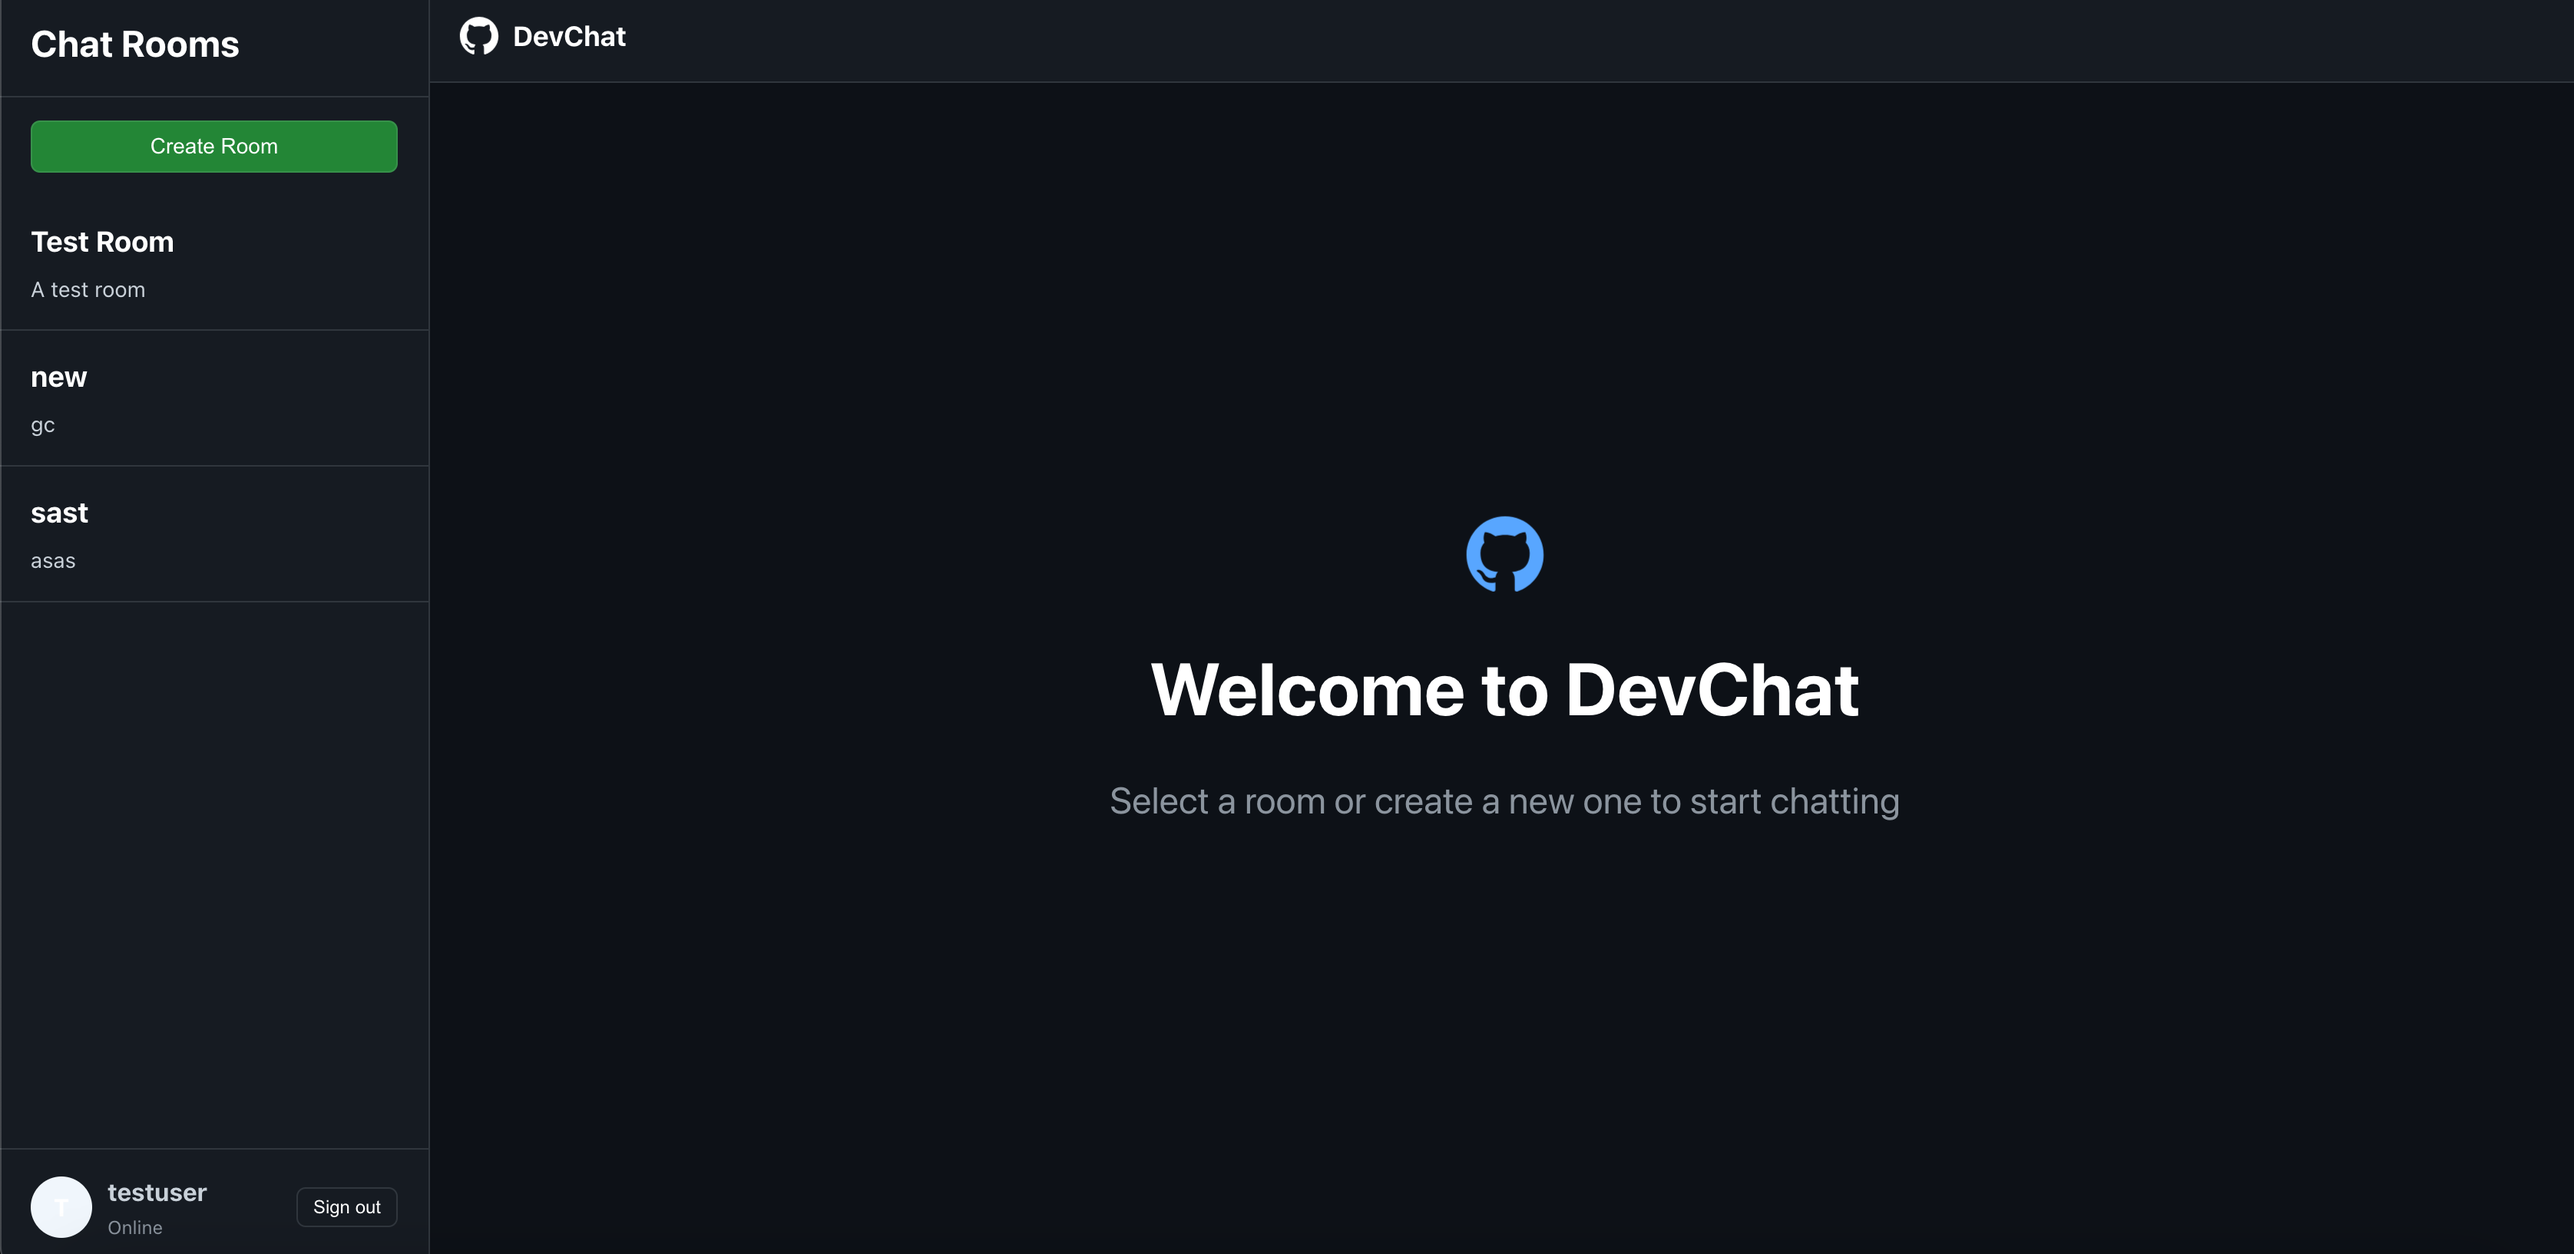
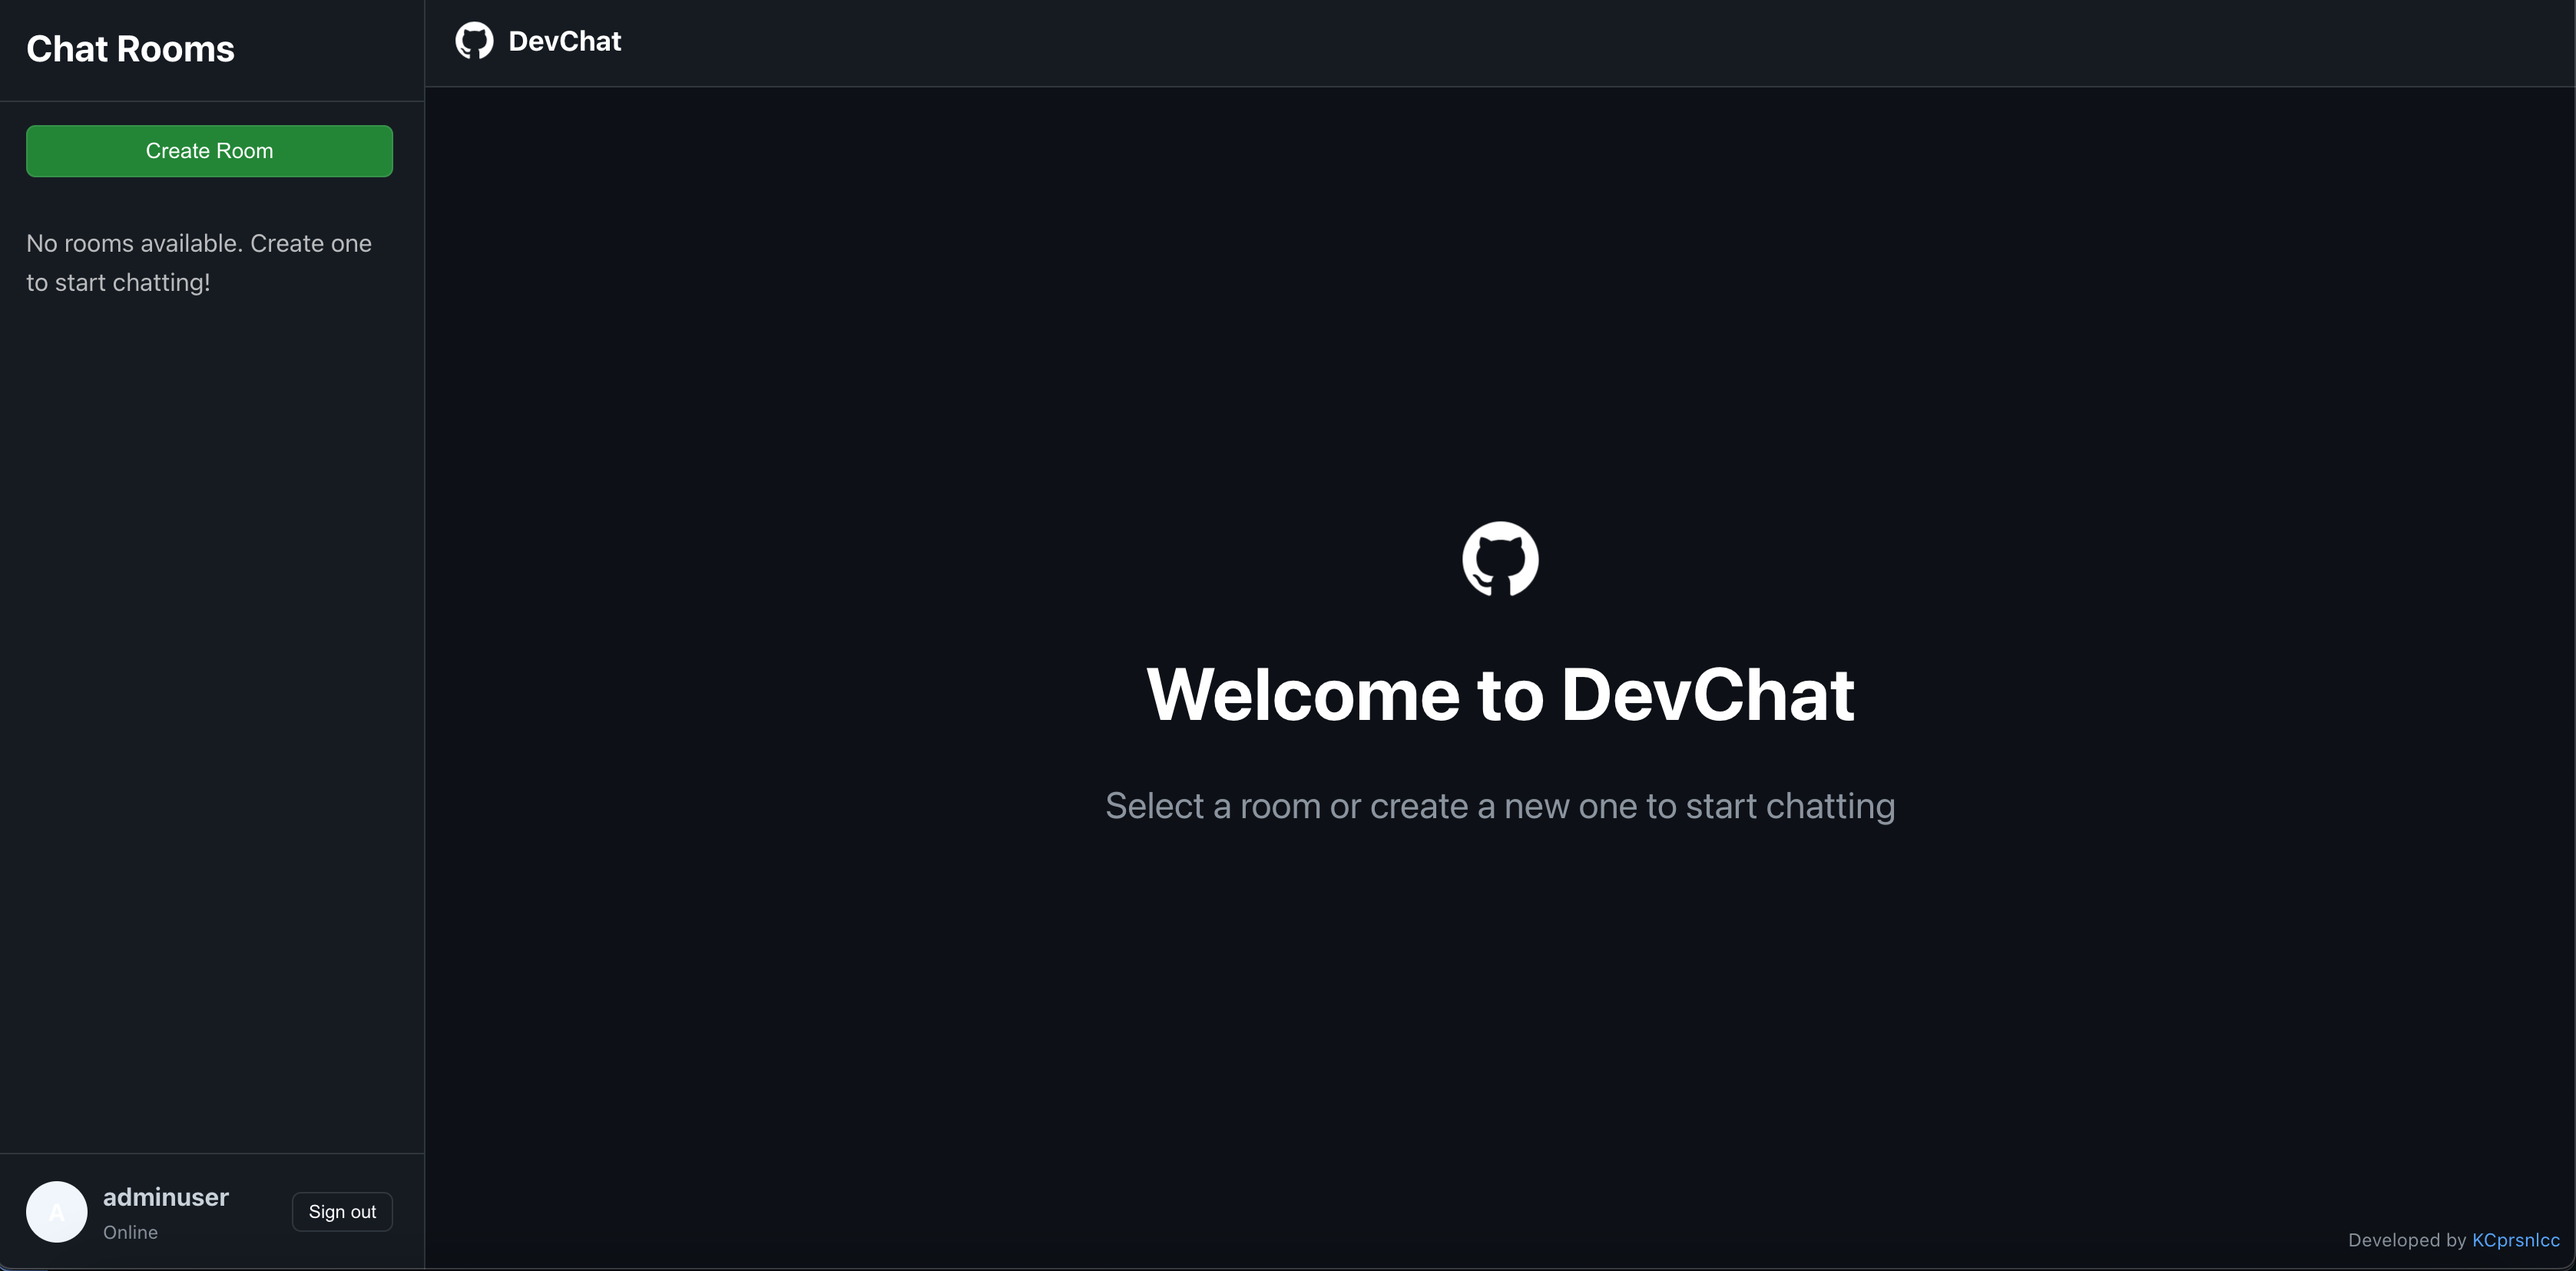
Update README to remove credits section, delete unused screenshot, and replace image with updated version

diff --git a/README.md b/README.md
@@ -89,7 +89,3 @@ DevChat's design is heavily inspired by GitHub's dark theme interface. The color
 ## License
 
 This project is licensed under the terms outlined in the [License](LICENSE.md).
-
-## Credits
-
-Developed by [KCprsnlcc](https://github.com/KCprsnlcc) with AI assistance.
